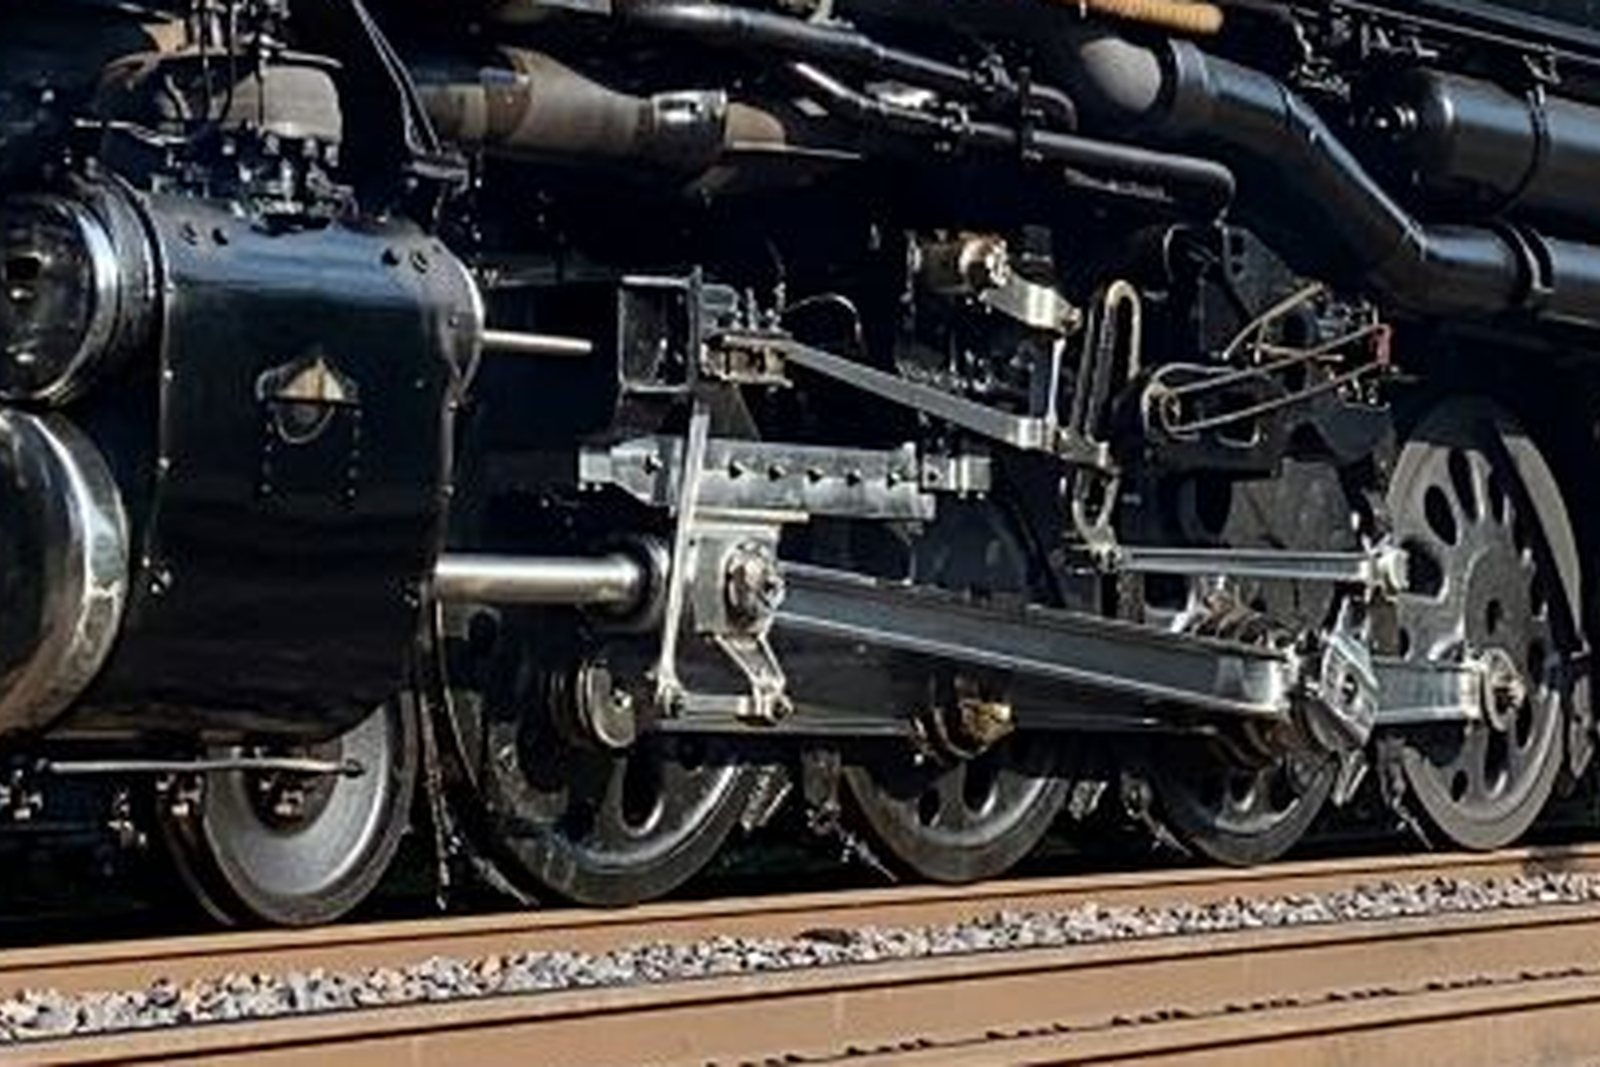
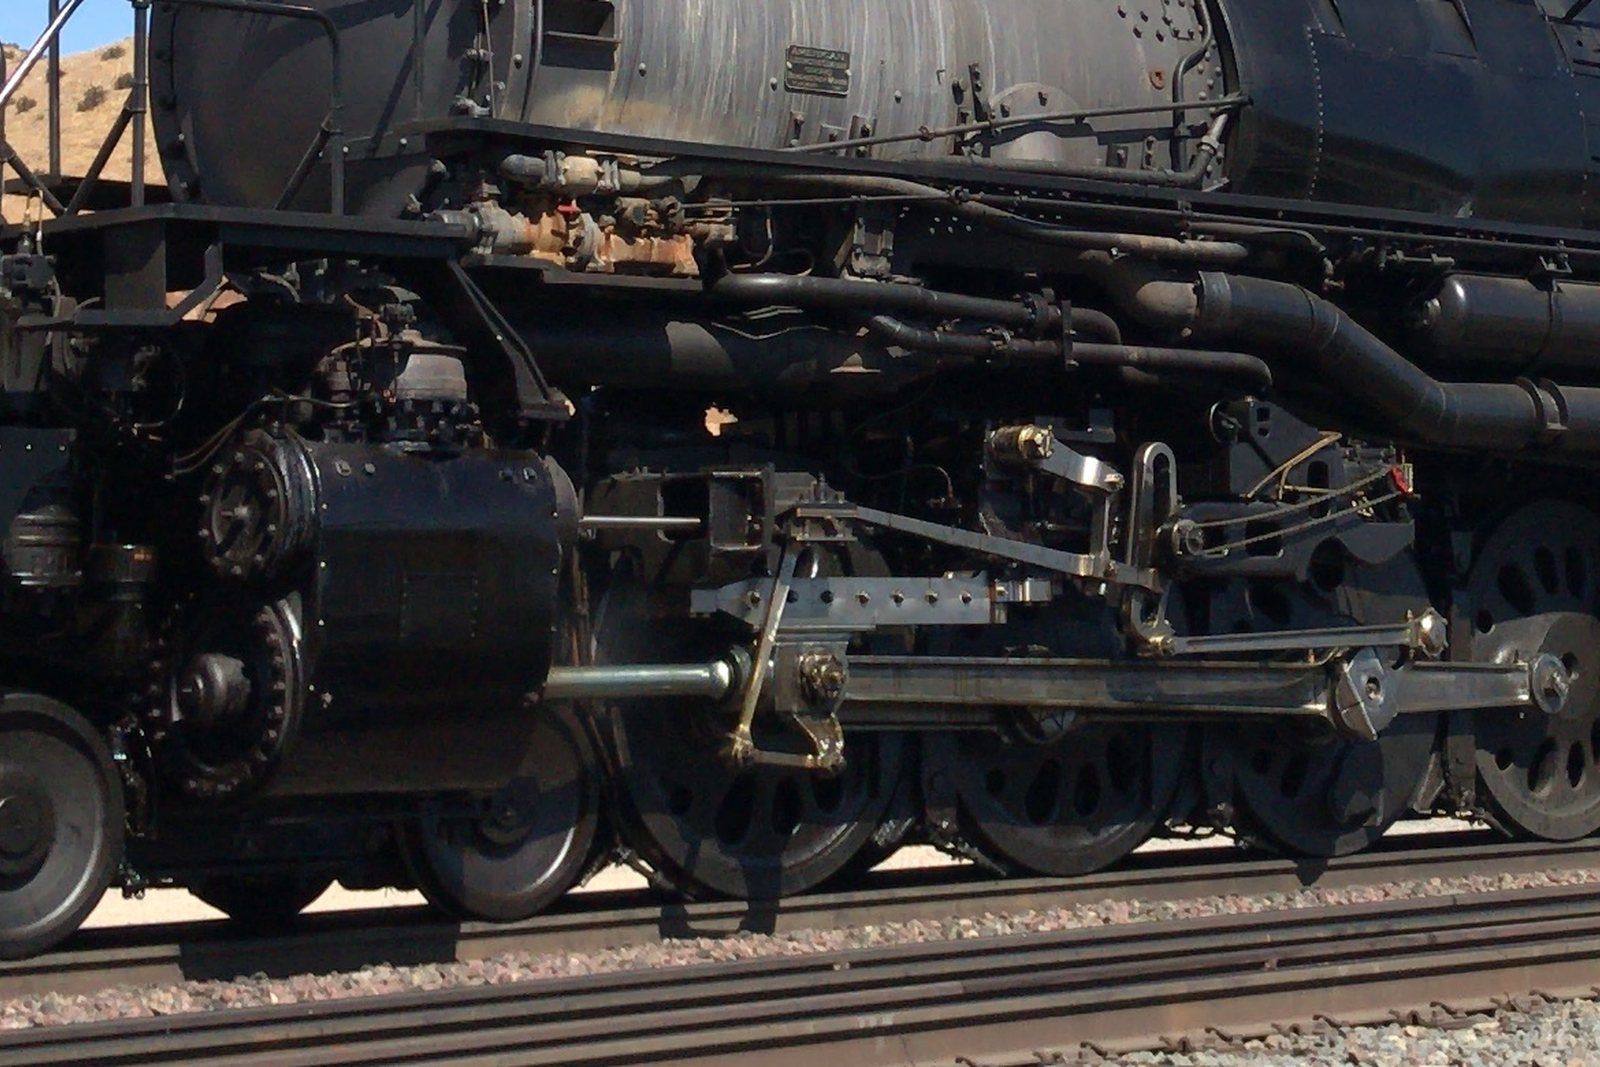
credits multiple pics

diff --git a/src/rubrieken.js b/src/rubrieken.js
@@ -21,7 +21,7 @@ export const rubrieken = {
     naam: 'Big Boy 4014',
     icoon: '/images/icon-bigboy.png',
     foto: '/images/big-boy-4014.jpg',
-    fotoCredit: 'Foto: bron nog aanvullen',
+    fotoCredit: 'Foto: Mark Loewe, via Wikimedia Commons, CC BY 2.0',
     intro: [
       'De Big Boy is de grootste stoomlocomotief die ooit gebouwd is en nog rijdt. Union Pacific liet er vijfentwintig maken, voor de zware treinen over de bergen in Wyoming.',
       'De 4014 stond decennialang stil in Californie. In 2019 reed hij weer, na een restauratie van jaren.',
@@ -57,7 +57,7 @@ export const rubrieken = {
     naam: 'ZLSM',
     icoon: '/images/icon-zlsm.png',
     foto: '/images/zlsm-1040.jpg',
-    fotoCredit: 'Foto: bron nog aanvullen',
+    fotoCredit: 'Foto: Joris, via Wikimedia Commons, CC BY-SA 4.0',
     intro: [
       'De Zuid-Limburgse Stoomtrein Maatschappij rijdt vanuit Simpelveld naar Kerkrade en naar Schin op Geul. De lijn wordt ook wel de Miljoenenlijn genoemd.',
       'Vroeger reden hier treinen voor de kolenmijnen. Toen de mijnen dichtgingen, verdween ook het spoor uit dienst.',
@@ -75,7 +75,7 @@ export const rubrieken = {
     naam: 'Techniek',
     icoon: '/images/icon-techniek.png',
     foto: '/images/asindeling.jpg',
-    fotoCredit: 'Foto: drijfwerk van de Big Boy 4014',
+    fotoCredit: 'Foto: Fan Railer, via Wikimedia Commons, CC BY-SA 4.0 (uitsnede)',
     intro: [
       'Hier gaat het over hoe een stoomlocomotief in elkaar zit, en waarom hij is zoals hij is.',
       'Waarom de ene loc vier drijfwielen heeft en de andere zestien. Wat het verschil is tussen kolen en olie stoken. Hoe een scharnierend frame door een bocht komt.',

diff --git a/src/content.config.ts b/src/content.config.ts
@@ -15,6 +15,7 @@ const nieuws = defineCollection({
     videoCredit: z.string().optional(),
     model: z.string().optional(),          // pad naar .glb in /models/
     modelCredit: z.string().optional(),
+    modelBron: z.string().optional(),
     bron: z.object({
       naam: z.string(),
       url: z.string().optional(),

diff --git a/src/content/nieuws/drijfwerk-bewegend.md b/src/content/nieuws/drijfwerk-bewegend.md
@@ -4,9 +4,10 @@ datum: 2026-08-04
 rubriek: techniek
 samenvatting: "De stangen aan de zijkant van een stoomloc doen allemaal iets anders. Draai het model rond en zet het stil om te zien wat."
 afbeelding: "/images/asindeling.jpg"
-afbeeldingCredit: "Foto: drijfwerk van de Big Boy 4014"
+afbeeldingCredit: "Foto: Fan Railer, via Wikimedia Commons, CC BY-SA 4.0 (uitsnede)"
 model: "/models/scotsman.glb"
-modelCredit: "3D-model: maker en licentie nog aanvullen, via Sketchfab. Dit is een Britse locomotief, geen Nederlandse."
+modelCredit: "3D-model: Train - Flying Scotsman Twin Tenders door timblewee, via Sketchfab, CC BY 4.0. Dit is een Britse locomotief, geen Nederlandse."
+modelBron: "https://sketchfab.com/3d-models/train-flying-scotsman-twin-tenders-7c25f152f44a4e8dbff13b6376e237b0"
 bron:
   naam: "Stoomtrein Vandaag"
   datum: "2026"

diff --git a/src/content/nieuws/big-boy-lima.md b/src/content/nieuws/big-boy-lima.md
@@ -4,9 +4,10 @@ datum: 2026-08-02
 rubriek: bigboy
 samenvatting: "Elke vijftig jaar haalt Amerika een stoomlocomotief uit 1941 van zijn sokkel. In juli kwamen de twee verhalen bij elkaar in Ohio."
 afbeelding: "/images/big-boy-4014.jpg"
-afbeeldingCredit: "Foto: bron nog aanvullen"
+afbeeldingCredit: "Foto: Mark Loewe, via Wikimedia Commons, CC BY 2.0"
 model: "/models/bigboy-4014.glb"
-modelCredit: "3D-model: maker en licentie nog aanvullen, via Sketchfab"
+modelCredit: "3D-model: Steam Locomotive 'Union Pacific BigBoy' door Footloose, via Sketchfab, CC BY 4.0"
+modelBron: "https://sketchfab.com/3d-models/steam-locomotive-union-pacific-bigboy-dff7f4b67c734d4db430d8c47810a6cd"
 bron:
   naam: "13abc, Ohio"
   url: "https://www.13abc.com/2026/07/15/riding-rails-with-big-boy-across-northwest-ohio-13-action-news-exclusive/"

diff --git a/src/content/nieuws/vsm-duitse-locs.md b/src/content/nieuws/vsm-duitse-locs.md
@@ -6,7 +6,8 @@ samenvatting: "De Veluwsche Stoomtrein Maatschappij rijdt tussen Apeldoorn en Di
 afbeelding: "/images/vsm-23076.jpg"
 afbeeldingCredit: "Foto: Sven Scholten"
 model: "/models/br52.glb"
-modelCredit: "3D-model: maker en licentie nog aanvullen, via Sketchfab"
+modelCredit: "3D-model: BR52 Steam Locomotive Animation door Ryan.Qin, via Sketchfab, CC BY 4.0"
+modelBron: "https://sketchfab.com/3d-models/br52-steam-locomotive-animation-852f498c26ee457d933f7fbeeb50c8ab"
 bron:
   naam: "Veluwsche Stoomtrein Maatschappij"
   datum: "2026"
